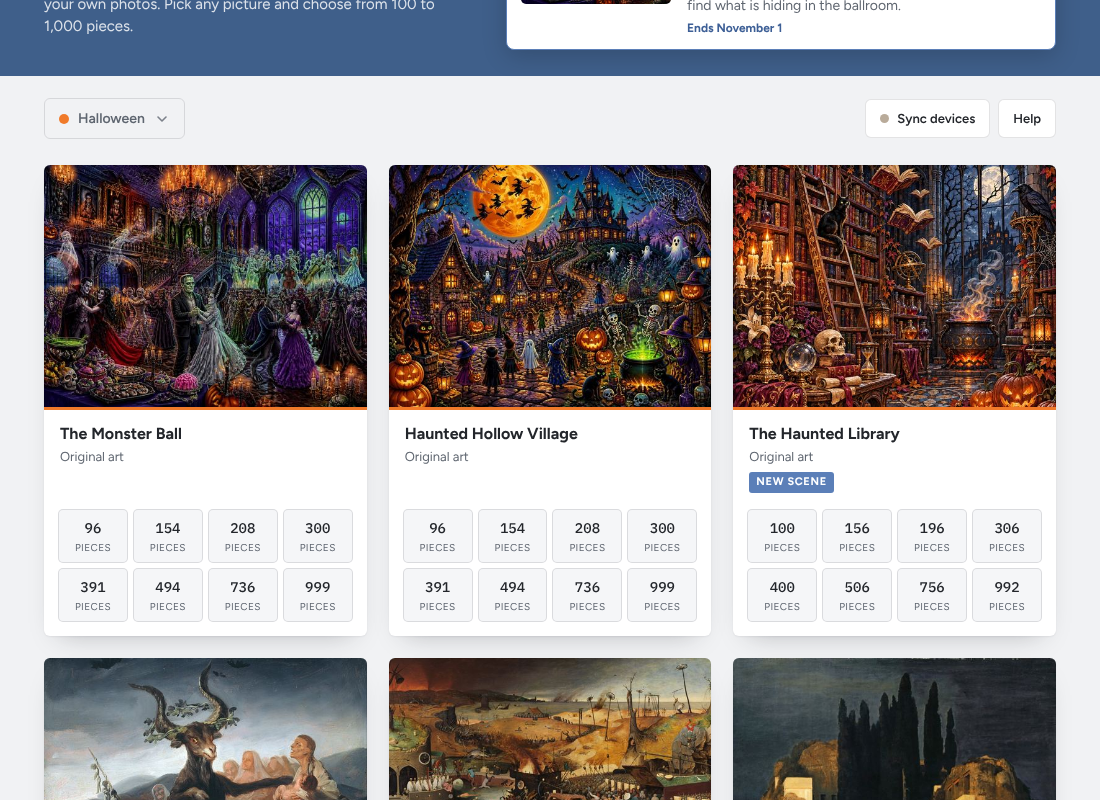
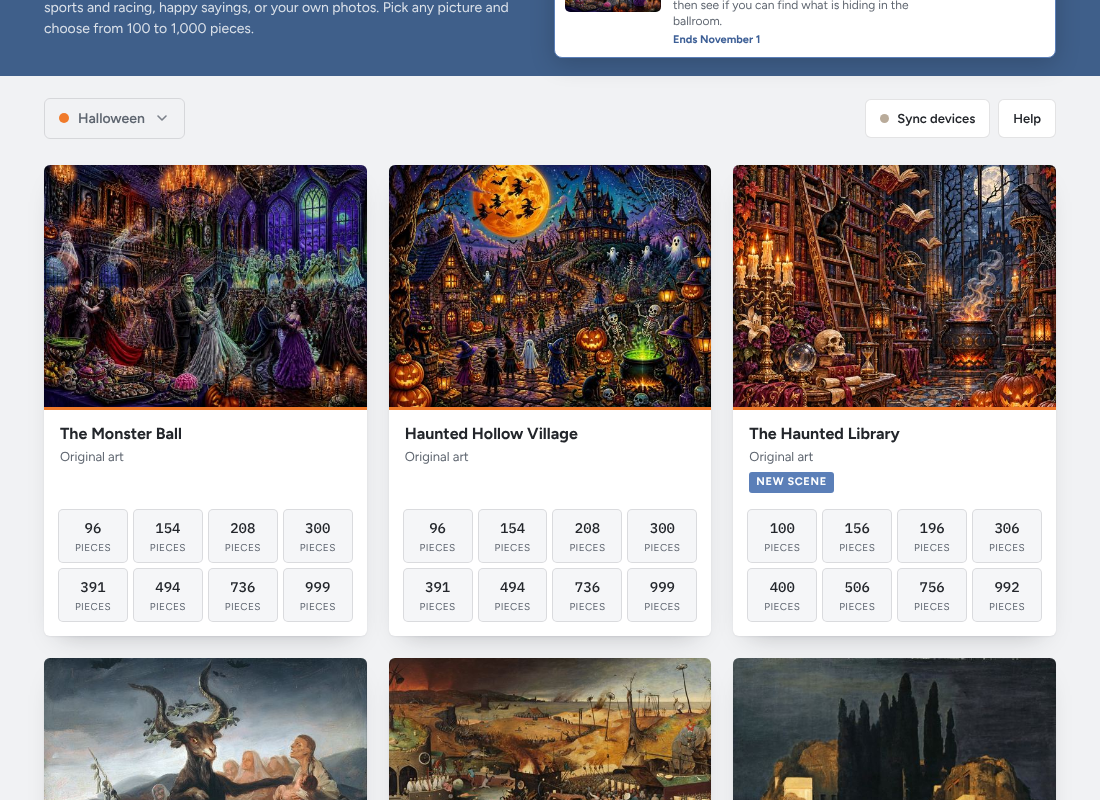
Header sized to match Color Cafe; compact promo card
Claude-Session: https://claude.ai/code/session_01X4jKmC36k778ncv5ZPyc4q

Changed region(s): [[0.0309, 0.0, 0.9582, 0.0938]]

diff --git a/public/index.html b/public/index.html
@@ -55,12 +55,12 @@ button{font:inherit;color:inherit}
 #gallery{min-height:100%;padding-inline:clamp(16px,4vw,48px);padding-block:28px 56px;
   background:radial-gradient(1200px 500px at 15% -10%, rgba(91,127,184,.10), transparent 60%), var(--wood)}
 .wrap{max-width:1240px;margin-inline:auto}
-.mast{background:var(--head);color:var(--head-ink);margin:-28px calc(-1*clamp(16px,4vw,48px)) 22px;padding:calc(26px + env(safe-area-inset-top)) clamp(16px,4vw,48px) 26px}
+.mast{background:var(--head);color:var(--head-ink);margin:-28px calc(-1*clamp(16px,4vw,48px)) 22px;padding:calc(18px + env(safe-area-inset-top)) clamp(16px,4vw,48px) 18px}
 .mast .wrap{display:flex;align-items:center;justify-content:space-between;gap:18px 36px;flex-wrap:wrap}
 .mast .intro{flex:1 1 360px;min-width:0}
-.mast h1{font-family:var(--display);font-weight:400;font-size:clamp(34px,6vw,58px);line-height:1;letter-spacing:.01em;margin:0 0 10px;color:var(--head-soft);text-wrap:balance}
+.mast h1{font-family:var(--display);font-weight:400;font-size:clamp(26px,5vw,36px);line-height:1;letter-spacing:.01em;margin:0 0 6px;color:var(--head-soft);text-wrap:balance}
 .mast h1 span{color:var(--head-ink)}
-.mast p{margin:0;max-width:52ch;color:var(--head-muted)}
+.mast p{margin:0;max-width:60ch;font-size:14px;color:var(--head-muted)}
 .tabs{display:flex;flex-wrap:wrap;align-items:center;gap:8px;margin-block:22px 26px}
 .picker{position:relative}
 .tab-cur{background:var(--ink);color:var(--wood);border-color:var(--ink);padding-right:12px}
@@ -93,13 +93,13 @@ button{font:inherit;color:inherit}
 .box .art img{width:100%;height:100%;object-fit:cover;display:block;transition:transform .5s ease}
 .box:hover .art img{transform:scale(1.04)}
 .box .art{cursor:zoom-in}
-#promo{flex:0 1 520px;display:flex;align-items:center;gap:16px;margin:0;padding:12px 14px;border-radius:8px;background:var(--card);color:var(--ink);border:1px solid var(--brass);box-shadow:0 6px 24px rgba(0,0,0,.18)}
-#promo img{width:150px;height:auto;aspect-ratio:4/3;align-self:center;object-fit:cover;border-radius:5px;flex:none;cursor:zoom-in}
+#promo{flex:0 1 480px;display:flex;align-items:center;gap:12px;margin:0;padding:8px 10px;border-radius:8px;background:var(--card);color:var(--ink);border:1px solid var(--brass);box-shadow:0 6px 24px rgba(0,0,0,.18)}
+#promo img{width:96px;height:auto;aspect-ratio:4/3;align-self:center;object-fit:cover;border-radius:5px;flex:none;cursor:zoom-in}
 #promo .ptext{flex:1;min-width:0;display:flex;flex-direction:column;gap:3px}
 #promo .kick{font-size:11px;font-weight:700;letter-spacing:.08em;text-transform:uppercase;color:var(--brass-ink);background:var(--brass);padding:2px 7px;border-radius:3px;align-self:flex-start}
-#promo h2{margin:0;font-size:19px;line-height:1.25;text-wrap:balance}
-#promo p{margin:0;color:var(--muted);font-size:14px}
-#promo .ends{font-size:12px;color:var(--brass-text);font-weight:700}
+#promo h2{margin:0;font-size:15px;line-height:1.25;text-wrap:balance}
+#promo p{margin:0;color:var(--muted);font-size:12px;line-height:1.3}
+#promo .ends{font-size:11px;color:var(--brass-text);font-weight:700}
 #promo .btn{flex:none}
 @media (max-width:640px){#promo{flex-basis:100%;flex-wrap:wrap}#promo img{width:100%;max-height:160px}#promo .btn{width:100%}}
 #look{position:fixed;inset:0;z-index:50;background:rgba(20,22,26,.94);display:flex;flex-direction:column;align-items:center;justify-content:center;gap:10px;padding:14px;cursor:zoom-out}

diff --git a/tools/index.src.html b/tools/index.src.html
@@ -30,12 +30,12 @@ button{font:inherit;color:inherit}
 #gallery{min-height:100%;padding-inline:clamp(16px,4vw,48px);padding-block:28px 56px;
   background:radial-gradient(1200px 500px at 15% -10%, rgba(91,127,184,.10), transparent 60%), var(--wood)}
 .wrap{max-width:1240px;margin-inline:auto}
-.mast{background:var(--head);color:var(--head-ink);margin:-28px calc(-1*clamp(16px,4vw,48px)) 22px;padding:calc(26px + env(safe-area-inset-top)) clamp(16px,4vw,48px) 26px}
+.mast{background:var(--head);color:var(--head-ink);margin:-28px calc(-1*clamp(16px,4vw,48px)) 22px;padding:calc(18px + env(safe-area-inset-top)) clamp(16px,4vw,48px) 18px}
 .mast .wrap{display:flex;align-items:center;justify-content:space-between;gap:18px 36px;flex-wrap:wrap}
 .mast .intro{flex:1 1 360px;min-width:0}
-.mast h1{font-family:var(--display);font-weight:400;font-size:clamp(34px,6vw,58px);line-height:1;letter-spacing:.01em;margin:0 0 10px;color:var(--head-soft);text-wrap:balance}
+.mast h1{font-family:var(--display);font-weight:400;font-size:clamp(26px,5vw,36px);line-height:1;letter-spacing:.01em;margin:0 0 6px;color:var(--head-soft);text-wrap:balance}
 .mast h1 span{color:var(--head-ink)}
-.mast p{margin:0;max-width:52ch;color:var(--head-muted)}
+.mast p{margin:0;max-width:60ch;font-size:14px;color:var(--head-muted)}
 .tabs{display:flex;flex-wrap:wrap;align-items:center;gap:8px;margin-block:22px 26px}
 .picker{position:relative}
 .tab-cur{background:var(--ink);color:var(--wood);border-color:var(--ink);padding-right:12px}
@@ -68,13 +68,13 @@ button{font:inherit;color:inherit}
 .box .art img{width:100%;height:100%;object-fit:cover;display:block;transition:transform .5s ease}
 .box:hover .art img{transform:scale(1.04)}
 .box .art{cursor:zoom-in}
-#promo{flex:0 1 520px;display:flex;align-items:center;gap:16px;margin:0;padding:12px 14px;border-radius:8px;background:var(--card);color:var(--ink);border:1px solid var(--brass);box-shadow:0 6px 24px rgba(0,0,0,.18)}
-#promo img{width:150px;height:auto;aspect-ratio:4/3;align-self:center;object-fit:cover;border-radius:5px;flex:none;cursor:zoom-in}
+#promo{flex:0 1 480px;display:flex;align-items:center;gap:12px;margin:0;padding:8px 10px;border-radius:8px;background:var(--card);color:var(--ink);border:1px solid var(--brass);box-shadow:0 6px 24px rgba(0,0,0,.18)}
+#promo img{width:96px;height:auto;aspect-ratio:4/3;align-self:center;object-fit:cover;border-radius:5px;flex:none;cursor:zoom-in}
 #promo .ptext{flex:1;min-width:0;display:flex;flex-direction:column;gap:3px}
 #promo .kick{font-size:11px;font-weight:700;letter-spacing:.08em;text-transform:uppercase;color:var(--brass-ink);background:var(--brass);padding:2px 7px;border-radius:3px;align-self:flex-start}
-#promo h2{margin:0;font-size:19px;line-height:1.25;text-wrap:balance}
-#promo p{margin:0;color:var(--muted);font-size:14px}
-#promo .ends{font-size:12px;color:var(--brass-text);font-weight:700}
+#promo h2{margin:0;font-size:15px;line-height:1.25;text-wrap:balance}
+#promo p{margin:0;color:var(--muted);font-size:12px;line-height:1.3}
+#promo .ends{font-size:11px;color:var(--brass-text);font-weight:700}
 #promo .btn{flex:none}
 @media (max-width:640px){#promo{flex-basis:100%;flex-wrap:wrap}#promo img{width:100%;max-height:160px}#promo .btn{width:100%}}
 #look{position:fixed;inset:0;z-index:50;background:rgba(20,22,26,.94);display:flex;flex-direction:column;align-items:center;justify-content:center;gap:10px;padding:14px;cursor:zoom-out}

diff --git a/public/sw.js b/public/sw.js
@@ -1,4 +1,4 @@
-const C='puzzle-parlor-e59d60f1bb';
+const C='puzzle-parlor-d53b57b3e2';
 self.addEventListener('install',e=>{e.waitUntil(caches.open(C).then(c=>c.addAll(['./index.html','./manifest.webmanifest','./icon-192.png'])));self.skipWaiting()});
 self.addEventListener('activate',e=>{e.waitUntil(caches.keys().then(ks=>Promise.all(ks.filter(k=>k!==C&&k!=='puzzle-parlor-media').map(k=>caches.delete(k)))));self.clients.claim()});
 self.addEventListener('fetch',e=>{
